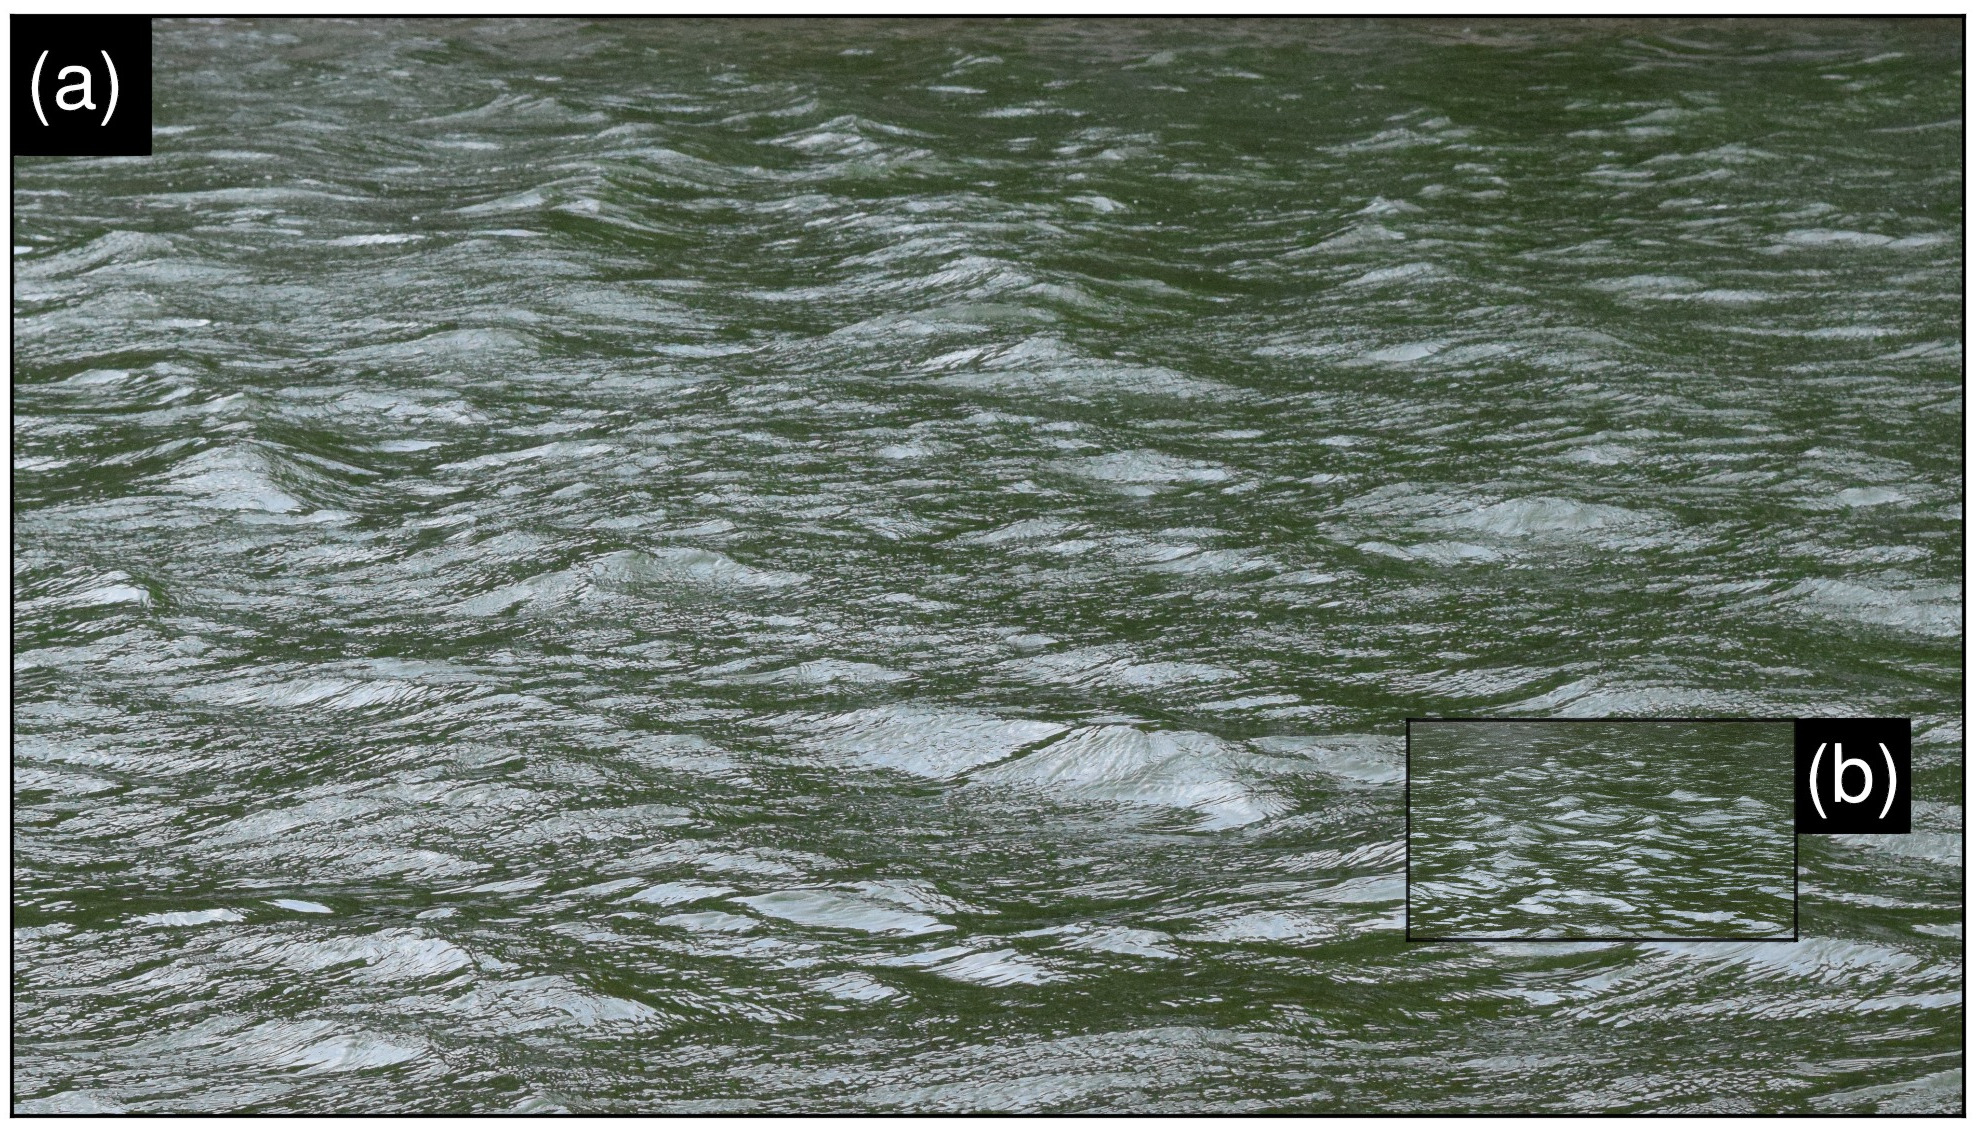
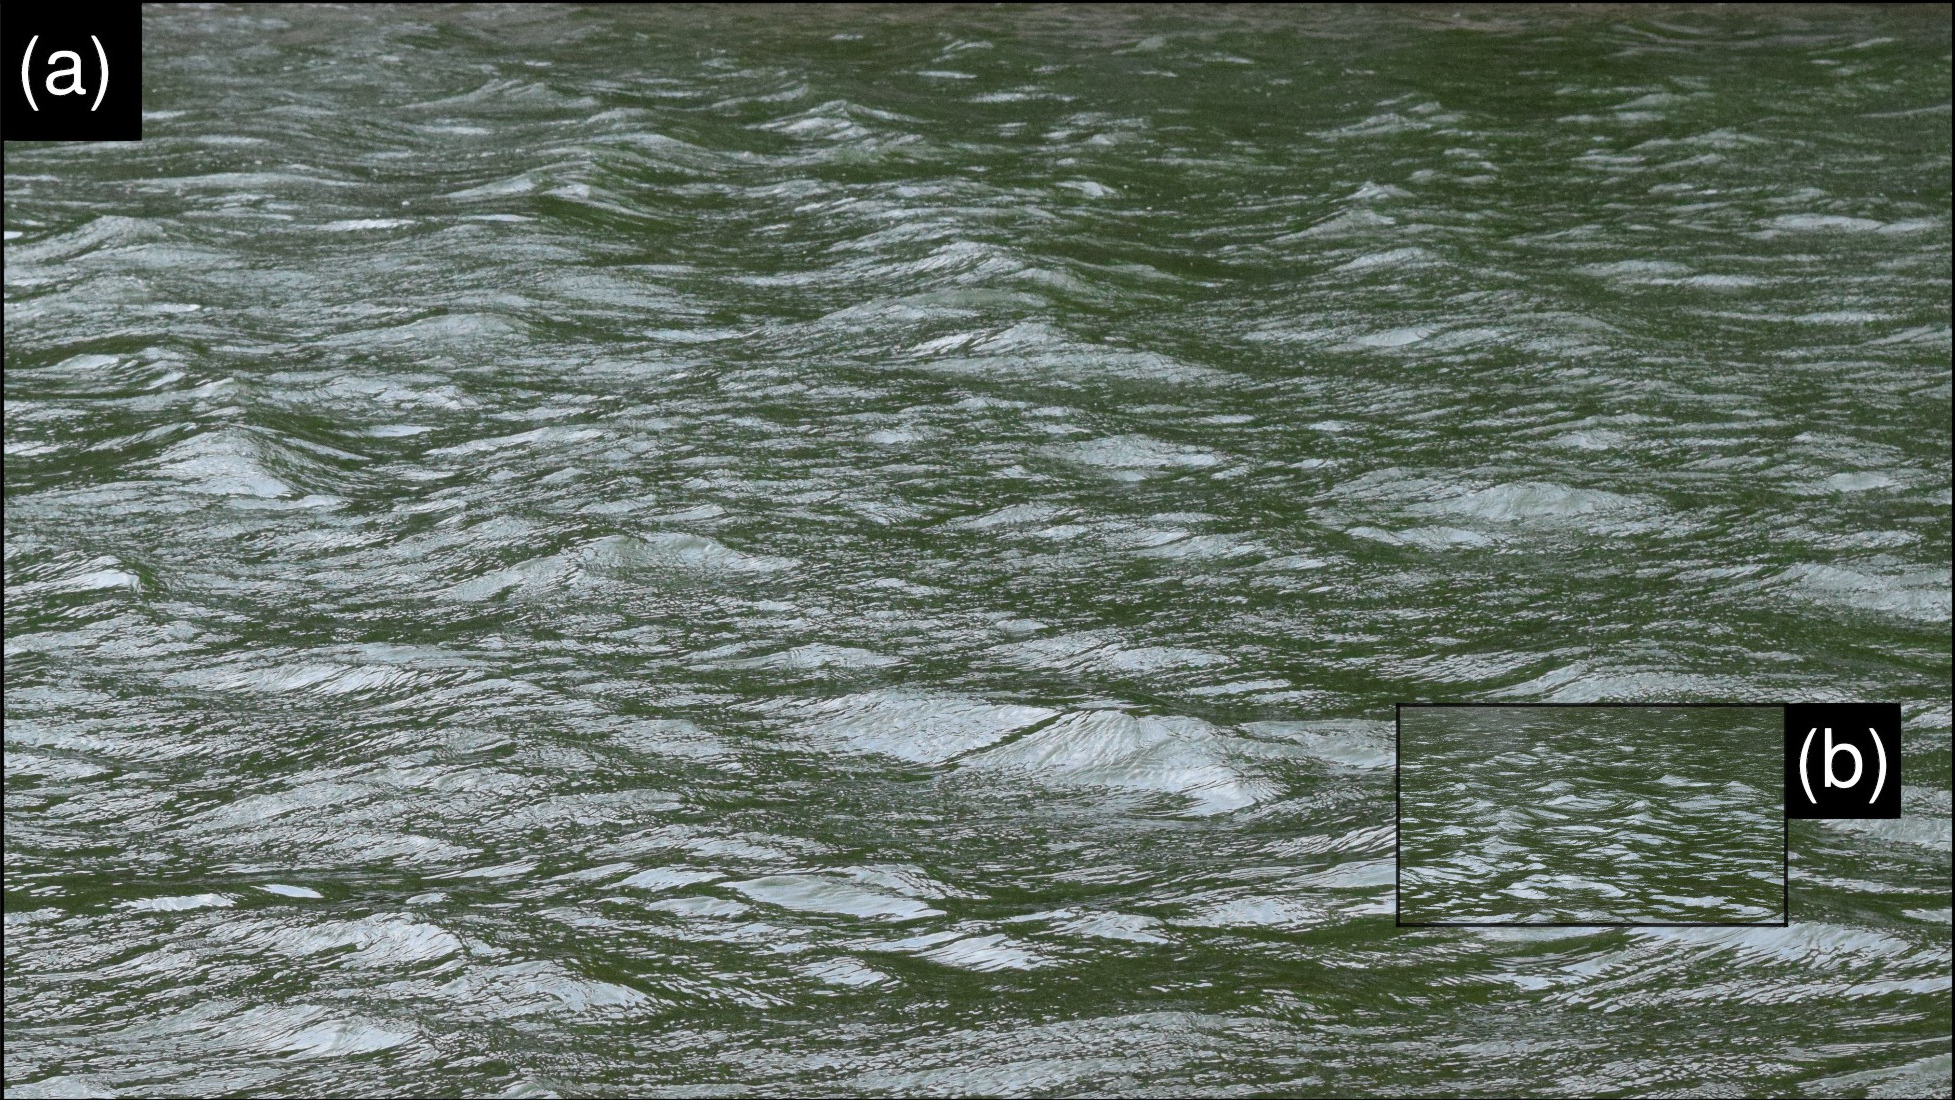
new photos

diff --git a/public/photos/monterrey/index.html b/public/photos/monterrey/index.html
@@ -1,0 +1,158 @@
+<!DOCTYPE html>
+<html lang="en">
+<head><script src="/livereload.js?mindelay=10&amp;v=2&amp;port=1313&amp;path=livereload" data-no-instant defer></script>
+    <meta name="google-site-verification" content="OA7xUcI_lajVaUMI6oPygbMosk8zq5AQHFRHE83N48Y" />
+
+    <script>
+        
+        const currentTheme = localStorage.getItem('theme');
+        
+        if (currentTheme === 'dark') {
+            document.documentElement.classList.add('dark-mode');
+        }
+    </script>
+
+    <meta charset="UTF-8">
+    <meta name="viewport" content="width=device-width, initial-scale=1.0">
+    <title>Monterrey  Alberto Ruiz Biestro</title>
+    
+    <link href="https://cdn.jsdelivr.net/npm/bootstrap@5.3.0/dist/css/bootstrap.min.css" rel="stylesheet">
+    
+    <link rel="stylesheet" href="/css/hankel.css">
+    
+    <link rel="icon" href="/images/icosahedron.gif" type="image/x-icon">
+    
+
+    <script>
+        window.MathJax = {
+            tex: {
+                inlineMath: [['$', '$'], ['\\(', '\\)']],
+                displayMath: [['$$', '$$']],
+                processEscapes: true
+            }
+        };
+    </script>
+    <script id="MathJax-script" async src="https://cdn.jsdelivr.net/npm/mathjax@3/es5/tex-mml-chtml.js"></script>
+</head>
+<body>
+
+    <div class="container-x">
+        <nav class="nav-x">
+            <div class="nav-links">
+                
+                    <a href="/">Alberto Ruiz-Biestro</a>
+                
+                    <a href="/posts/">posts</a>
+                
+                    <a href="https://github.com/biestro/BoundaryWall.jl?tab=readme-ov-file#boundarywalljl">code</a>
+                
+                    <a href="/photos/">photos</a>
+                
+            </div>
+
+            <button id="theme-toggle" aria-label="Toggle Dark Mode">Theme</button>
+        </nav>
+
+        <main>
+            
+<div style="position: relative;">
+    <article style="position: relative;">
+        <header style="display: flex; align-items: center; position: relative; justify-content: space-between; width: 100%;">
+            
+            <h1 class="post-title" style="margin:0; display:inline-block; vertical-align:middle;">Monterrey</h1>
+            <div class="post-meta" style="min-width:170px; display:flex; flex-direction:column; align-items:flex-end; text-align:right;">
+                <span>March 1, 2024</span>
+                <span style="font-size:0.95em; opacity:0.7; margin-top:0.1em;">6 words</span>
+            </div>
+        </header>
+        <hr>
+
+        <div class="post-content">
+            
+
+
+
+
+<center>
+<figure style="margin-bottom: 3rem;">
+  <a href="./cerro_1.jpg" target="_blank">
+    
+    <img src="./cerro_1.jpg"
+         style="width: 600px; height: auto; object-fit: contain;">
+    
+  </a>
+  <figcaption>Pico norte (1)</figcaption>
+</figure>
+</center>
+
+
+
+
+
+
+<center>
+<figure style="margin-bottom: 3rem;">
+  <a href="./cerro_2.jpg" target="_blank">
+    
+    <img src="./cerro_2.jpg"
+         style="width: 600px; height: auto; object-fit: contain;">
+    
+  </a>
+  <figcaption>Pico norte (2)</figcaption>
+</figure>
+</center>
+
+
+        </div>
+    </article>
+</div>
+
+        </main>
+        
+        <footer style="margin-top: 2rem;">
+            <center>
+                &copy; 2026 Alberto Ruiz Biestro. Photos licensed CC-BY-SA 3.0.
+            </center>
+        </footer>
+    </div>
+
+    <script>
+        
+        document.addEventListener("DOMContentLoaded", function() {
+            const article = document.querySelector('article');
+            if (article) {
+                article.innerHTML = article.innerHTML.replace(
+                    /\[\[(.*?)\]\]/g, 
+                    function(match, text) {
+                        const slug = text.trim().toLowerCase().replace(/\s+/g, '-');
+                        return `<a href="/posts/${slug}" class="wikilink">${text}</a>`;
+                    }
+                );
+            }
+        });
+
+        
+        const toggleBtn = document.getElementById('theme-toggle');
+        const htmlTag = document.documentElement;
+
+        
+        if (htmlTag.classList.contains('dark-mode')) {
+            toggleBtn.innerText = "Light?";
+        } else {
+            toggleBtn.innerText = "Dark?";
+        }
+
+        toggleBtn.addEventListener('click', () => {
+            htmlTag.classList.toggle('dark-mode');
+            
+            if (htmlTag.classList.contains('dark-mode')) {
+                localStorage.setItem('theme', 'dark');
+                toggleBtn.innerText = "Light?";
+            } else {
+                localStorage.setItem('theme', 'light');
+                toggleBtn.innerText = "Dark?";
+            }
+        });
+    </script>
+</body>
+</html>

diff --git a/public/photos/index.html b/public/photos/index.html
@@ -42,8 +42,6 @@
                 
                     <a href="/">Alberto Ruiz-Biestro</a>
                 
-                    <a href="/">home</a>
-                
                     <a href="/posts/">posts</a>
                 
                     <a href="https://github.com/biestro/BoundaryWall.jl?tab=readme-ov-file#boundarywalljl">code</a>
@@ -67,7 +65,7 @@
                 <tbody>
                     
                     <tr class="post-list-row">
-                        <td class="post-list-date">2026-02-17</td>
+                        <td class="post-list-date">2026-05-17</td>
                         <td class="post-list-title-cell">
                             <a class="post-list-link" href="/photos/rice_nature/" >
                                 <span>Rice (Flora &amp; Fauna)</span>
@@ -78,10 +76,21 @@
                     </tr>
                     
                     <tr class="post-list-row">
-                        <td class="post-list-date">2026-02-17</td>
+                        <td class="post-list-date">2025-02-15</td>
                         <td class="post-list-title-cell">
                             <a class="post-list-link" href="/photos/rice_water/" >
                                 <span>Rice (Water)</span>
+                                
+                                
+                            </a>
+                        </td>
+                    </tr>
+                    
+                    <tr class="post-list-row">
+                        <td class="post-list-date">2024-03-01</td>
+                        <td class="post-list-title-cell">
+                            <a class="post-list-link" href="/photos/monterrey/" >
+                                <span>Monterrey</span>
                                 
                                 
                             </a>

diff --git a/public/index.html b/public/index.html
@@ -43,8 +43,6 @@
                 
                     <a href="/">Alberto Ruiz-Biestro</a>
                 
-                    <a href="/">home</a>
-                
                     <a href="/posts/">posts</a>
                 
                     <a href="https://github.com/biestro/BoundaryWall.jl?tab=readme-ov-file#boundarywalljl">code</a>
@@ -68,8 +66,8 @@
             <div class="text-center mb-3">
                 
                     
-                        <a href="/posts/walk-on-spheres">
-                        <img src="/images/wos.gif" alt="Profile Picture" class="img-fluid mb-3" style="max-width: 200px;">
+                        <a href="/images/klimt_crop.jpeg">
+                        <img src="/images/klimt_crop.jpeg" alt="Profile Picture" class="img-fluid mb-3" style="max-width: 200px;">
                         </a>
                     
                 
@@ -123,9 +121,11 @@
         </div>
         <div class="col-md-8">
             <div class="content">
-                <p>I am a second-year PhD student in the Physics and Astronomy program at Rice University.</p>
-<p>I enjoy bridging theory and computation in physics, particularly to design and understand solids (or condensed systems).</p>
-<p>Before coming to Rice, I completed my BSc. in Engineering Physics at Monterrey&rsquo;s Institute of Technology. My previous research focused on computational optics and quantum billiards.</p>
+                <p>I am a second-year PhD student in the Physics and Astronomy program at Rice University. I enjoy bridging theory and computation in physics, particularly to design and understand solids (or condensed matter systems).</p>
+<p>DFT is the workhorse of any modern computational materials, but it is limited by its implementation. Even with High-Performance-Computing centers, the ever-growing demands of materials science makes DFT calculations expensive (sometimes even prohibitely expensive).</p>
+<p>I work with a technique called <em>Wannierization</em> that can be applied after an inexpensive DFT calculation, albeit not highly accurate, in order to reduce the complexity of any <em>a posteriori</em> calculation that requires higher accuracy (say interpolation, magnetic-force-theorem, etc.).</p>
+<p>Wannierization in itself is an interesting problem, but the <strong>main goal</strong> of using such tools is to discover new materials with interesting magnetic behaviour (high-throughput searches).</p>
+<p>Before coming to Rice, I completed my BSc. in Engineering Physics at Monterrey&rsquo;s Institute of Technology. My previous research focused on computational optics and quantum billiards. You can read more about it here: <a href="https://doi.org/10.1103/PhysRevE.109.034203">doi:10.1103/PhysRevE.109.034203</a>.</p>
 
                 
                 <hr>

diff --git a/public/404.html b/public/404.html
@@ -19,11 +19,6 @@
       <span class="nav-icon">🧑🔬</span>
     </a>
     
-    <a href="/">
-      <span class="nav-text">home</span>
-      <span class="nav-icon">🏠</span>
-    </a>
-    
     <a href="/posts/">
       <span class="nav-text">posts</span>
       <span class="nav-icon">📝</span>

diff --git a/public/categories/index.html b/public/categories/index.html
@@ -19,11 +19,6 @@
       <span class="nav-icon">🧑🔬</span>
     </a>
     
-    <a href="/">
-      <span class="nav-text">home</span>
-      <span class="nav-icon">🏠</span>
-    </a>
-    
     <a href="/posts/">
       <span class="nav-text">posts</span>
       <span class="nav-icon">📝</span>

diff --git a/public/css/hankel.css b/public/css/hankel.css
@@ -421,6 +421,11 @@ a:hover::after {
   align-items: center;
   flex: 1 1 auto;
 }
+
+.nav-x .nav-links a:first-child {
+    font-weight: bold;
+}
+
 .nav-x .nav-links a {
   color: var(--text-color);
   text-decoration: none;

diff --git a/public/tags/index.html b/public/tags/index.html
@@ -19,11 +19,6 @@
       <span class="nav-icon">🧑🔬</span>
     </a>
     
-    <a href="/">
-      <span class="nav-text">home</span>
-      <span class="nav-icon">🏠</span>
-    </a>
-    
     <a href="/posts/">
       <span class="nav-text">posts</span>
       <span class="nav-icon">📝</span>

diff --git a/static/css/hankel.css b/static/css/hankel.css
@@ -421,6 +421,11 @@ a:hover::after {
   align-items: center;
   flex: 1 1 auto;
 }
+
+.nav-x .nav-links a:first-child {
+    font-weight: bold;
+}
+
 .nav-x .nav-links a {
   color: var(--text-color);
   text-decoration: none;

diff --git a/public/photos/rice_nature/index.html b/public/photos/rice_nature/index.html
@@ -42,8 +42,6 @@
                 
                     <a href="/">Alberto Ruiz-Biestro</a>
                 
-                    <a href="/">home</a>
-                
                     <a href="/posts/">posts</a>
                 
                     <a href="https://github.com/biestro/BoundaryWall.jl?tab=readme-ov-file#boundarywalljl">code</a>
@@ -63,7 +61,7 @@
             
             <h1 class="post-title" style="margin:0; display:inline-block; vertical-align:middle;">Rice (Flora &amp; Fauna)</h1>
             <div class="post-meta" style="min-width:170px; display:flex; flex-direction:column; align-items:flex-end; text-align:right;">
-                <span>February 17, 2026</span>
+                <span>May 17, 2026</span>
                 <span style="font-size:0.95em; opacity:0.7; margin-top:0.1em;">22 words</span>
             </div>
         </header>

diff --git a/public/photos/rice_water/index.html b/public/photos/rice_water/index.html
@@ -42,8 +42,6 @@
                 
                     <a href="/">Alberto Ruiz-Biestro</a>
                 
-                    <a href="/">home</a>
-                
                     <a href="/posts/">posts</a>
                 
                     <a href="https://github.com/biestro/BoundaryWall.jl?tab=readme-ov-file#boundarywalljl">code</a>
@@ -63,7 +61,7 @@
             
             <h1 class="post-title" style="margin:0; display:inline-block; vertical-align:middle;">Rice (Water)</h1>
             <div class="post-meta" style="min-width:170px; display:flex; flex-direction:column; align-items:flex-end; text-align:right;">
-                <span>February 17, 2026</span>
+                <span>February 15, 2025</span>
                 <span style="font-size:0.95em; opacity:0.7; margin-top:0.1em;">41 words</span>
             </div>
         </header>

diff --git a/public/categories/posts/index.html b/public/categories/posts/index.html
@@ -42,8 +42,6 @@
                 
                     <a href="/">Alberto Ruiz-Biestro</a>
                 
-                    <a href="/">home</a>
-                
                     <a href="/posts/">posts</a>
                 
                     <a href="https://github.com/biestro/BoundaryWall.jl?tab=readme-ov-file#boundarywalljl">code</a>

diff --git a/public/categories/reviews/index.html b/public/categories/reviews/index.html
@@ -42,8 +42,6 @@
                 
                     <a href="/">Alberto Ruiz-Biestro</a>
                 
-                    <a href="/">home</a>
-                
                     <a href="/posts/">posts</a>
                 
                     <a href="https://github.com/biestro/BoundaryWall.jl?tab=readme-ov-file#boundarywalljl">code</a>